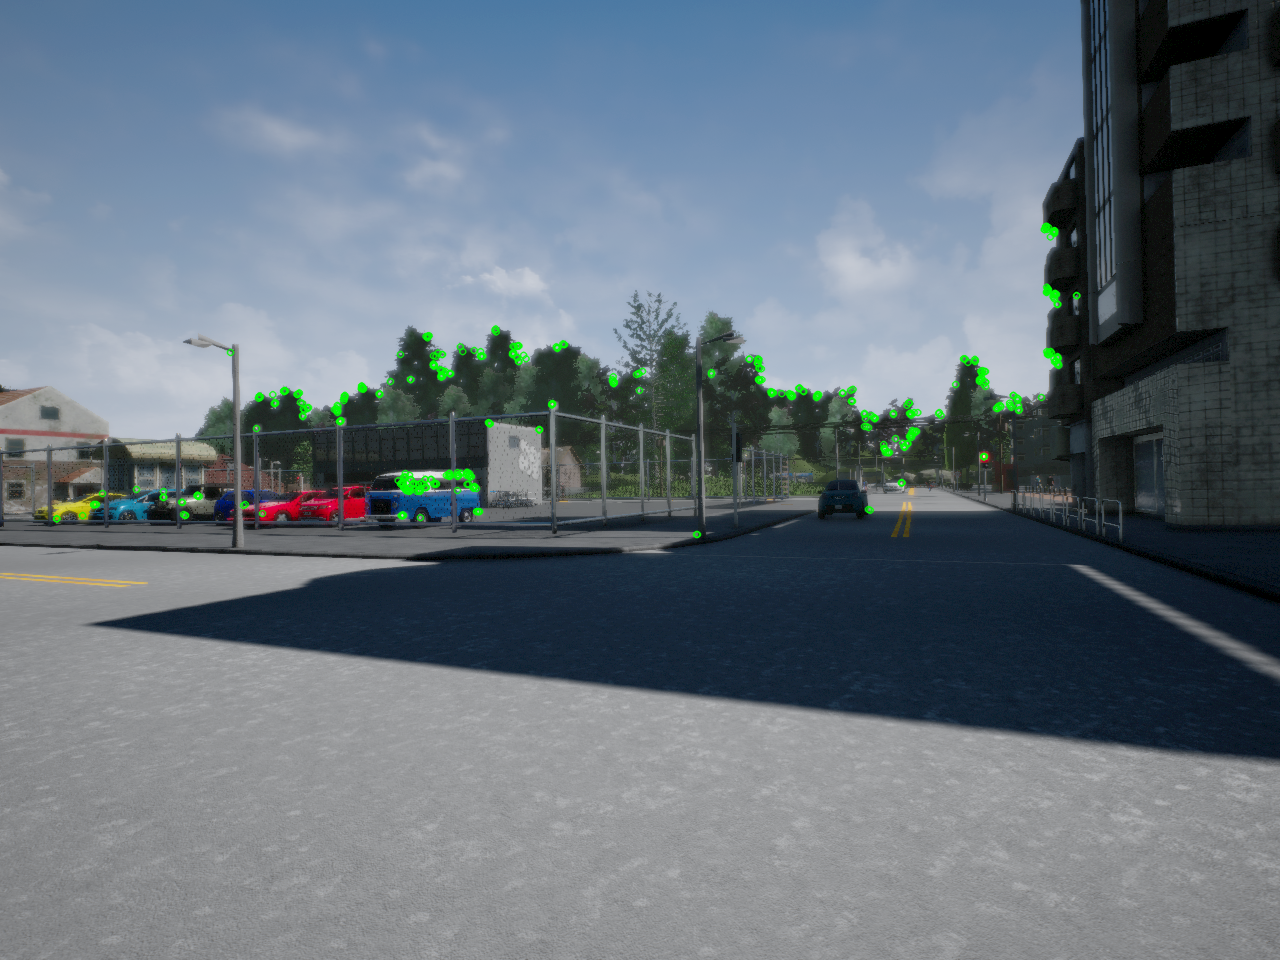
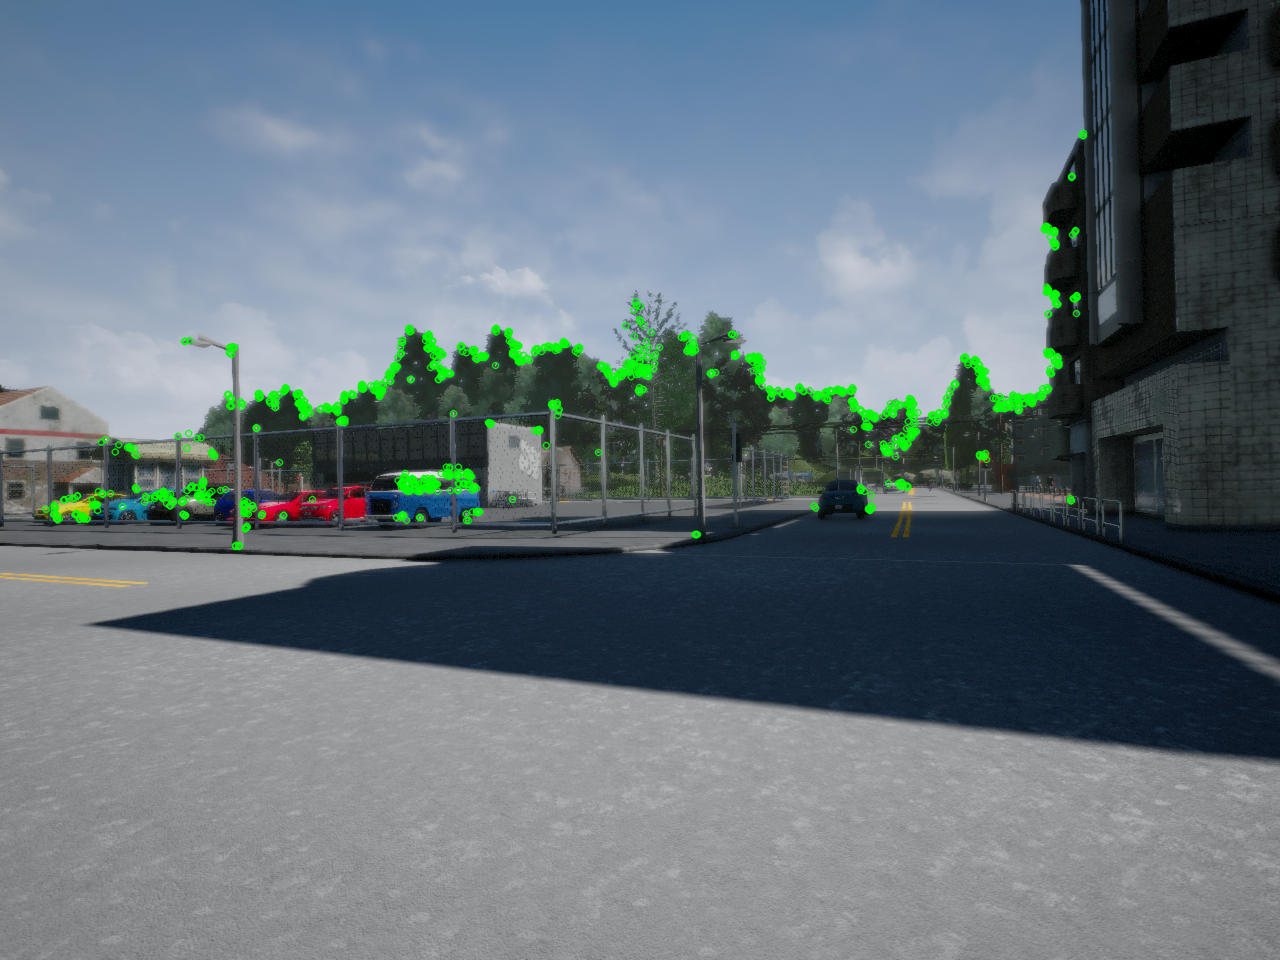
Add example of matched features

diff --git a/README.md b/README.md
@@ -126,6 +126,41 @@ The **Brute-Force** matcher compares the descriptor of one feature in the first 
 
 **FLANN** stands for Fast Library for Approximate Nearest Neighbors. It contains a collection of algorithms optimized for fast neighbor search in datasets and for high dimensional features.
 
+```python
+def match_features(des1, des2):
+    """
+    Match features from two images
+
+    Arguments:
+    des1 -- list of the keypoint descriptors in the first image
+    des2 -- list of the keypoint descriptors in the second image
+
+    Returns:
+    match -- list of matched features from two images. Each match[i] is k or less matches for the same query descriptor
+    """
+    # Define FLANN parameters
+    FLANN_INDEX_LSH = 6
+    index_params = dict(algorithm = FLANN_INDEX_LSH,
+                        table_number = 6,
+                        key_size = 12,
+                        multi_probe_level = 1)
+    search_params = dict(checks = 50)
+    
+    # Initiate FLANN matcher
+    flann = cv2.FlannBasedMatcher(index_params, search_params)
+    
+    # Find matches with FLANN
+    match = flann.knnMatch(des1, des2, k=2)
+    
+    return match
+```
+
+Here is an example of the matched features:
+
+<p align="center">
+<img src="output/feature-matching.png" />
+</p>
+
 Trajectory Estimation
 
 References
